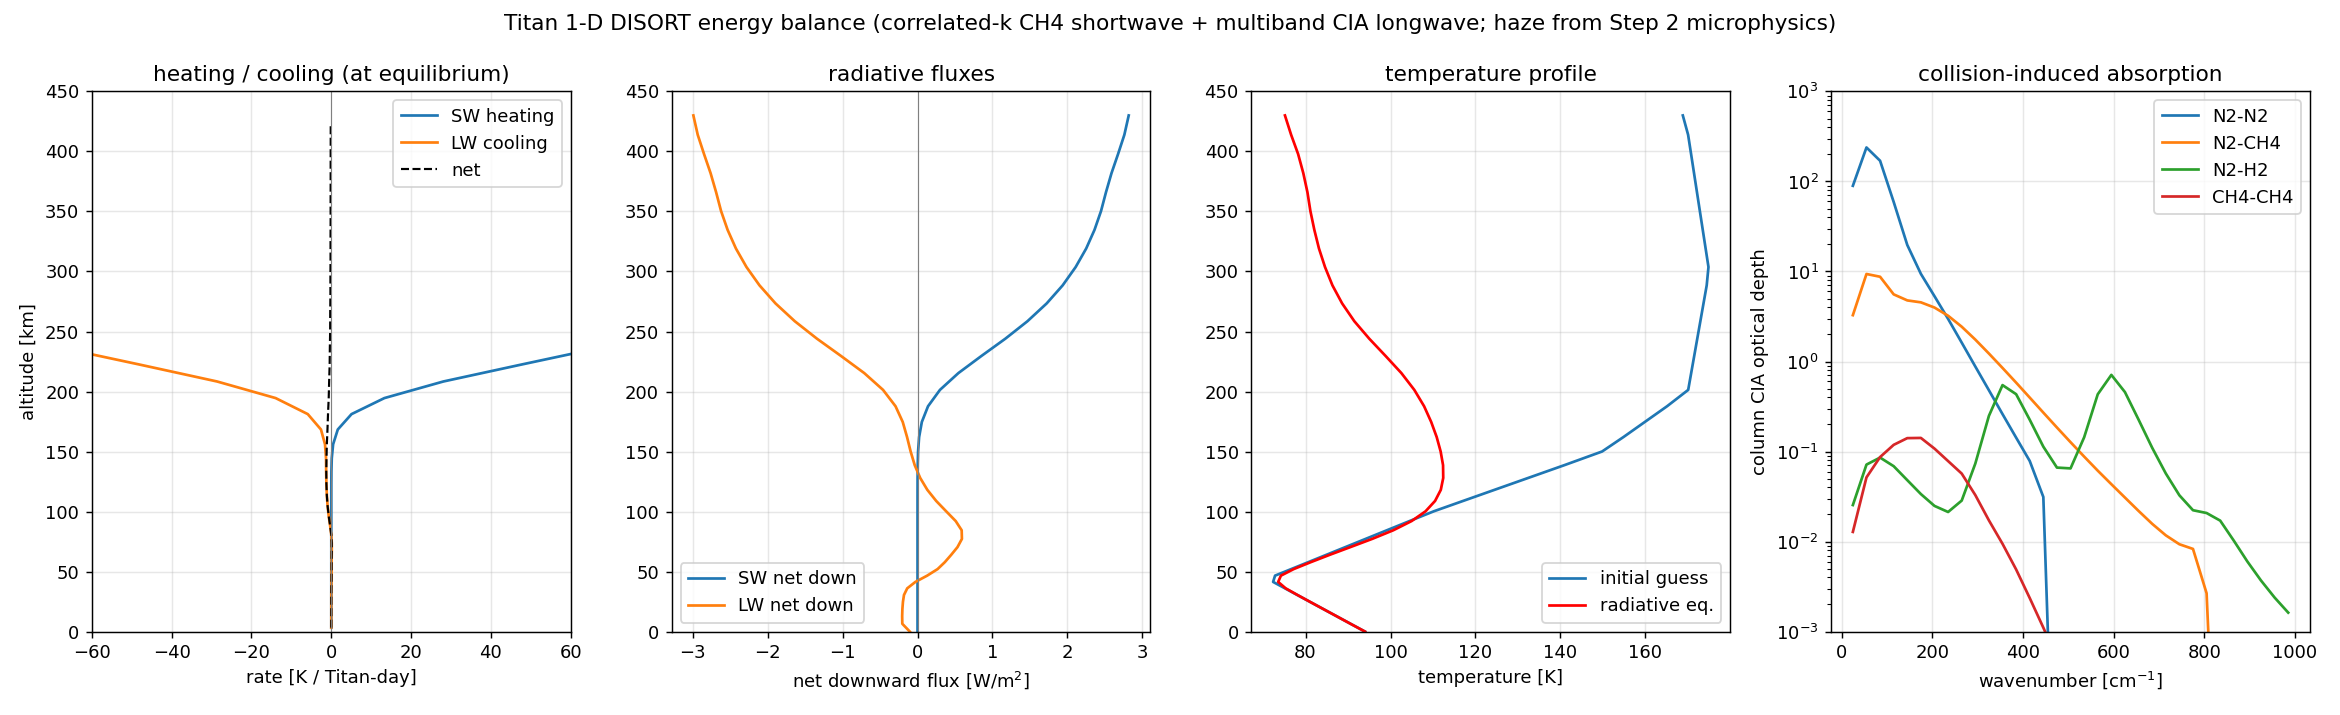
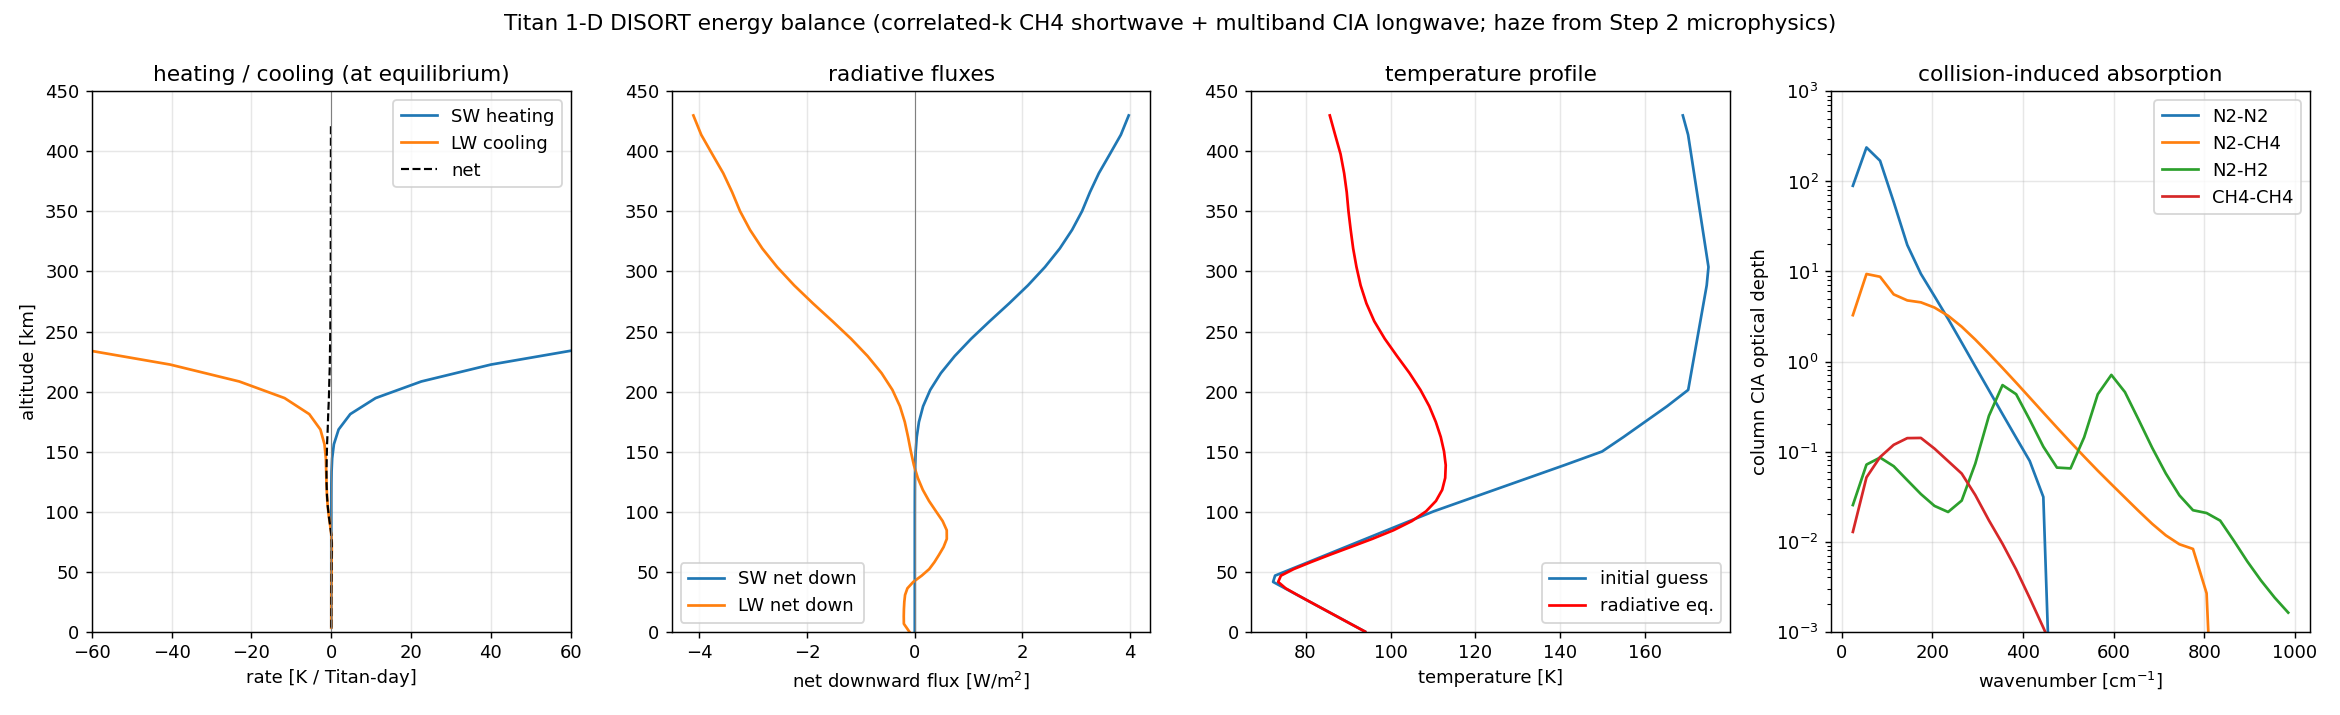
Step 1: spectral haze shortwave optics (omega0(lambda), g(lambda))
Replace the gray haze single-scattering albedo/asymmetry with the
observational Huygens/DISR-derived spectra (Doose 2016; preschazev_ssa/g),
interpolated to the model SW bands: omega0 -> 0 (pure absorber) in the UV,
~0.9 in the near-IR; per-band asymmetry. The SW solver now carries a
per-wave (per-band) Henyey-Greenstein asymmetry.

Effect: total shortwave absorbed rises 2.8 -> 4.0 W/m^2 (near Tomasko's
4.5), but the stratopause warms only to ~115 K. Diagnostics show the
residual ~80 K cold bias vs the Fortran (195 K) is NOT the SW gas or haze
single-scattering (both now spectral and shared with the Fortran): it is
(i) the haze optical-depth magnitude -- the mobility-radius cross-section
overestimates large-aggregate extinction (our column tau ~8x the observed
~8.6), and (ii) LW gas-line cooling (C2H2/C2H6/HCN) absent from our
CIA-only longwave. Documented as the next refinements (mean-field
aggregate optics + gas-line LW).

10/10 RT + 12/12 microphysics tests pass. Paper/figures/README updated.

diff --git a/writing/main.tex b/writing/main.tex
@@ -150,10 +150,12 @@ Table~\ref{tab:params}.
 The solver is built on \texttt{pydisort} (a modern \texttt{torch}-based DISORT
 binding) with eight streams: a collimated solar beam in the shortwave and a
 band-resolved Planck thermal source in the longwave. Per layer the optical
-properties combine the haze---taken directly from the Step~2 microphysics via a
-geometric cross-section $Q_{\rm ext}\pi r_a^2$, with $\omega_0,g$ from the
-Huygens/DISR literature (scattering in the shortwave, a near-pure absorber in
-the IR)---and the gas.
+properties combine the haze---its extinction from the Step~2 microphysics
+(cross-section $Q_{\rm ext}\pi r_a^2$), with \emph{spectral} single-scattering
+albedo $\omega_0(\lambda)$ and asymmetry $g(\lambda)$ taken from the Huygens/DISR
+prescribed haze (Doose 2016): $\omega_0\!\to\!0$ in the UV (pure absorber),
+rising to $\sim\!0.9$ in the near-IR, and a near-pure absorber in the thermal
+IR---and the gas.
 
 The longwave gas opacity is \emph{real collision-induced absorption}, the
 dominant thermal-IR continuum on Titan. We read the HITRAN CIA coefficients
@@ -189,25 +191,31 @@ Cold space is imposed as the top boundary (a thermal emission temperature of
 $2.7\,\mathrm{K}$, not the atmosphere's top temperature); without this the
 column spuriously absorbs downwelling longwave and overheats.
 
-The solver reaches a genuine steady state: $\sim\!\SI{2.8}{W.m^{-2}}$ of
-shortwave is absorbed against $\sim\!\SI{2.9}{W.m^{-2}}$ of outgoing longwave
-(energy closed to $\sim\!0.1\,\mathrm{W\,m^{-2}}$), with a converged net-heating
-residual below $1\,\mathrm{K}$ per Titan day. The equilibrium profile
-(Fig.~\ref{fig:ebal}) is recognizably Titan-like---a stratopause near
-$110\,\mathrm{K}$ ($\sim\!300\,\mathrm{Pa}$), a cold tropopause near
-$74\,\mathrm{K}$, and a $\sim\!92\,\mathrm{K}$ surface---with the right vertical
-structure but a stratosphere still $\sim\!80\,\mathrm{K}$ cooler than observed.
-Adding correlated-$k$ methane (above) warms the stratopause only modestly
-($\sim\!108\to115\,\mathrm{K}$): although CH$_4$ contributes real spectral
-heating, the total shortwave absorbed is unchanged because on Titan the
-\emph{haze} is the dominant shortwave absorber. The residual cold bias therefore
-traces to the haze shortwave treatment---our microphysical haze deposits its
-absorption lower in the column (its mass peaks near the surface) than the
-reference model's observationally-prescribed stratospheric haze
-(Sec.~\ref{sec:rt-fortran})---so observationally-constrained, spectrally-resolved
-haze optics is the next refinement. The correlated-$k$ shortwave methane, real-CIA
-longwave, energy closure, and haze$\rightarrow$optics$\rightarrow$DISORT coupling
-are in place, which is what Step~3 requires.
+The solver reaches a genuine steady state: with correlated-$k$ methane and the
+spectral haze, $\sim\!\SI{4.0}{W.m^{-2}}$ of shortwave is absorbed (close to the
+$\sim\!\SI{4.5}{W.m^{-2}}$ of \citealp{Tomasko2008heat}) against the outgoing
+longwave, energy closed to $\sim\!0.1\,\mathrm{W\,m^{-2}}$ with a converged
+net-heating residual below $1\,\mathrm{K}$ per Titan day. The equilibrium profile
+(Fig.~\ref{fig:ebal}) has the right vertical structure---a stratopause near
+$115\,\mathrm{K}$ ($\sim\!300\,\mathrm{Pa}$), a cold tropopause near
+$74\,\mathrm{K}$, and a $\sim\!92\,\mathrm{K}$ surface---but the stratosphere is
+still $\sim\!80\,\mathrm{K}$ cooler than observed.
+
+The shortwave upgrades above each helped the budget (correlated-$k$ CH$_4$ adds
+$\approx\!\SI{1.4}{W.m^{-2}}$; the spectral haze raises absorbed shortwave from
+$2.8$ to $\SI{4.0}{W.m^{-2}}$) but moved the stratopause temperature only
+modestly. We trace the residual cold bias to two effects that are deeper than the
+shortwave single-scattering properties: (i) the haze optical-depth \emph{magnitude}
+---using the mobility radius for the optical cross-section overestimates the
+extinction of large fractal aggregates, giving a column optical depth several
+times the observed value, which distorts where sunlight is deposited; and (ii) the
+longwave cooling, which here is collision-induced absorption plus haze emission
+only and lacks the C$_2$H$_2$/C$_2$H$_6$/HCN rotational-line opacity that shapes
+the real stratospheric energy balance. A proper mean-field aggregate optics
+treatment and gas-line longwave cooling are therefore the next refinements. The
+correlated-$k$ shortwave methane, spectral haze, real-CIA longwave, energy
+closure, and haze$\rightarrow$optics$\rightarrow$DISORT coupling are in place,
+which is what Step~3 requires.
 
 \begin{figure}[t]
   \centering
@@ -236,17 +244,18 @@ Figure~\ref{fig:fortran} overlays the two on a shared pressure coordinate. They
 share the same vertical \emph{structure}---a stratopause, a cold tropopause near
 $70$--$74\,\mathrm{K}$, and a $\sim\!90\,\mathrm{K}$ surface---but the reference
 model's stratopause is warmer ($\sim\!195\,\mathrm{K}$ vs.\ our
-$\sim\!115\,\mathrm{K}$). Both models now use correlated-$k$ methane in the
-shortwave (the same $k$-table), so the gap is \emph{not} the gas: the heating
-panel shows the reference model deposits more shortwave in the stratosphere
-because its observationally-prescribed haze absorbs more sunlight there than our
-microphysical haze, whose absorption (with $\omega_0\!=\!0.92$ and a mass profile
-peaking near the surface) is weaker and lower. The close agreement on the
-longwave-controlled lower atmosphere indicates the real-CIA longwave is the
-dominant control on that part of the structure; the stratospheric temperature
-gap is now attributable to the \emph{haze shortwave optics}, making
-observationally-constrained, spectrally-resolved haze single-scattering
-properties the priority upgrade.
+$\sim\!115\,\mathrm{K}$). The two models now share the same shortwave gas
+(correlated-$k$ CH$_4$, same $k$-table) and the same observational haze
+single-scattering spectra, yet the gap persists---so it is neither the gas nor
+the haze $\omega_0,g$. It traces instead to (i) our haze optical-depth
+\emph{magnitude} (the mobility-radius cross-section overestimates large-aggregate
+extinction, so our column optical depth exceeds the observed by several times)
+and (ii) the longwave: the reference model includes C$_2$H$_2$/C$_2$H$_6$/HCN
+rotational-line cooling, whereas ours has only CIA plus haze emission. The two
+models agree most closely in the dense lower atmosphere, where CIA dominates the
+longwave---consistent with that being the part our physics already captures. A
+mean-field aggregate optics treatment (for the cross-section) and gas-line
+longwave cooling are the remaining upgrades.
 
 \begin{figure}[t]
   \centering

diff --git a/src/rt/optics.py b/src/rt/optics.py
@@ -23,8 +23,42 @@ altitude; the driver reverses them to DISORT top-down order.
 from __future__ import annotations
 
 from dataclasses import dataclass
+from functools import lru_cache
+from pathlib import Path
 
 import numpy as np
+
+_DATA = (Path(__file__).resolve().parents[2]
+         / "src" / "example_bowen_fort" / "INPUT" / "DATA")
+
+
+def _parse_preschaze(field: str):
+    """Read preschazev_<field>.txt -> (wn[nw], pl[npl], data[npl, nw])."""
+    L = (_DATA / f"preschazev_{field}.txt").read_text().split("\n")
+    nw, npl = int(L[1]), int(L[2])
+    wn = np.array(L[3].split(), float)
+    pl = np.array(L[4].split(), float)
+    data = np.array([L[5 + i].split() for i in range(npl)], float)
+    return wn, pl, data
+
+
+@lru_cache(maxsize=8)
+def spectral_haze_sw(band_centers_key):
+    """Observational haze single-scattering albedo and asymmetry per SW band.
+
+    From the Huygens/DISR-derived prescribed haze (Doose 2016 / Tomasko 2008):
+    omega0(lambda) and g(lambda), interpolated to the model band centres.  These
+    properties are nearly pressure-independent, so a representative stratospheric
+    level is used.  omega0 falls to ~0 (pure absorber) in the UV -- the dominant
+    stratospheric shortwave heating that a gray albedo misses.
+    """
+    band_centers = np.array(band_centers_key, float)
+    wn_s, pl, ssa = _parse_preschaze("ssa")
+    wn_g, _, gg = _parse_preschaze("g")
+    ip = int(np.argmin(np.abs(pl - 200.0)))        # ~200 Pa (stratosphere)
+    omega0 = np.interp(band_centers, wn_s, ssa[ip])
+    g = np.interp(band_centers, wn_g, gg[ip])
+    return np.clip(omega0, 0.0, 0.999999), np.clip(g, 0.0, 0.95)
 
 
 @dataclass
@@ -90,29 +124,34 @@ def shortwave_optics(column, micro, p: OpticsParams):
 def shortwave_optics_ck(column, micro, ck, p: OpticsParams, comp=None):
     """Correlated-k shortwave optics: per (band, Gauss-point) wave.
 
-    Combines gray haze scattering (constant across bands) with spectral CH4
+    Combines spectral haze single-scattering properties (omega0(lambda),
+    g(lambda) from the observational prescribed haze) with spectral CH4
     absorption from ``rt.correlated_k.CorrelatedKSW``.  Returns
-    (tau, ssa, g_haze, fbeam, weights) where tau/ssa are (nwave, nlyr) ascending,
-    fbeam[nwave] is the per-band TOA solar flux and weights[nwave] the Gauss
-    weights; the gas is a pure absorber so only ``ssa`` varies between waves.
+    (tau, ssa, g_wave, fbeam, weights): tau/ssa are (nwave, nlyr) ascending,
+    g_wave[nwave] the per-wave asymmetry, fbeam[nwave] the per-band TOA solar
+    flux, weights[nwave] the Gauss weights.  The gas is a pure absorber, so it
+    lowers ``ssa`` without changing the (haze) phase function.
     """
     tau_gas = ck.layer_tau(column, comp)              # (nband, ngauss, nlyr)
     tau_haze = layer_haze_tau(column, micro, p)       # (nlyr,)
     nb, ng, nlyr = tau_gas.shape
     nwave = nb * ng
-    sca_haze = p.ssa_haze_sw * tau_haze               # haze scattering optical depth
+    omega0_b, g_b = spectral_haze_sw(tuple(np.round(ck.bands, 3)))   # per band
     tau = np.empty((nwave, nlyr))
     ssa = np.empty((nwave, nlyr))
+    g_wave = np.empty(nwave)
     for b in range(nb):
+        sca_haze = omega0_b[b] * tau_haze             # haze scattering opt depth (nlyr)
         for gi in range(ng):
             w = b * ng + gi
             tt = tau_haze + tau_gas[b, gi]
             tau[w] = tt
             ssa[w] = np.clip(np.where(tt > 0, sca_haze / np.maximum(tt, 1e-300), 0.0),
                              0.0, 0.999999)
+            g_wave[w] = g_b[b]
     fbeam = np.repeat(ck.solar, ng)                   # per-band solar, repeated over g
     weights = np.tile(ck.gw, nb)                      # Gauss weight per wave
-    return tau, ssa, p.g_haze_sw, fbeam, weights
+    return tau, ssa, g_wave, fbeam, weights
 
 
 def longwave_optics_spectral(column, micro, cia, p: OpticsParams, comp=None):

diff --git a/src/rt/disort_driver.py b/src/rt/disort_driver.py
@@ -67,15 +67,15 @@ def solve_shortwave(tau, ssa, g, fbeam, umu0, albedo=0.1, nstr=8):
     return _net_down(ds)[::-1].copy()       # back to ascending
 
 
-def solve_shortwave_spectral(tau, ssa, g_haze, fbeam, weights, umu0,
+def solve_shortwave_spectral(tau, ssa, g_wave, fbeam, weights, umu0,
                              albedo=0.1, nstr=8):
     """Multi-wave (correlated-k) solar-beam DISORT solve.
 
     ``tau, ssa`` are (nwave, nlyr) ascending-in-altitude, one wave per
-    (band, Gauss-point); ``fbeam[nwave]`` is the per-band TOA solar flux and
-    ``weights[nwave]`` the Gauss weights.  Scattering is haze-only, so the phase
-    function is a single Henyey-Greenstein with asymmetry ``g_haze`` for every
-    wave (gas is a pure absorber, varying only ``ssa``).  Returns the
+    (band, Gauss-point); ``g_wave[nwave]`` is the per-wave (haze) asymmetry,
+    ``fbeam[nwave]`` the per-band TOA solar flux, ``weights[nwave]`` the Gauss
+    weights.  Scattering is haze-only (Henyey-Greenstein, asymmetry varying by
+    band); the gas is a pure absorber, lowering only ``ssa``.  Returns the
     weight-summed net downward flux at levels (ascending).
     """
     tau = np.asarray(tau, float)
@@ -91,7 +91,10 @@ def solve_shortwave_spectral(tau, ssa, g_haze, fbeam, weights, umu0,
     prop = torch.zeros((nwave, 1, nlyr, nprop))
     prop[:, 0, :, 0] = torch.from_numpy(tau[:, ::-1].copy())
     prop[:, 0, :, 1] = torch.from_numpy(np.asarray(ssa, float)[:, ::-1].copy())
-    prop[:, 0, :, 2:] = scattering_moments(nstr, "henyey-greenstein", float(g_haze))
+    # Henyey-Greenstein moments per wave: g_w^l for l = 1..nstr
+    g_wave = np.asarray(g_wave, float)
+    moments = g_wave[:, None] ** np.arange(1, nstr + 1)[None, :]   # (nwave, nstr)
+    prop[:, 0, :, 2:] = torch.from_numpy(moments.copy())[:, None, :]
 
     fbeam = np.asarray(fbeam, float).reshape(nwave, 1)
     ds.forward(prop,

diff --git a/tests/test_rt.py b/tests/test_rt.py
@@ -85,6 +85,21 @@ def test_correlated_k_ch4_shortwave():
     assert sw[0] > 0                              # some sunlight reaches the surface
 
 
+def test_spectral_haze_sw():
+    """Spectral haze single-scattering albedo is wavelength-dependent and absorbs
+    strongly in the UV (omega0 -> 0), unlike a gray albedo."""
+    from rt.correlated_k import CorrelatedKSW
+    from rt.optics import spectral_haze_sw
+    ck = CorrelatedKSW(sma_au=9.58)
+    omega0, g = spectral_haze_sw(tuple(np.round(ck.bands, 3)))
+    assert omega0.size == ck.nband and g.size == ck.nband
+    assert 0.0 <= omega0.min() < 0.5          # absorbing UV/red bands
+    assert omega0.max() > 0.8                  # scattering visible/near-IR bands
+    assert np.all((g >= 0.0) & (g <= 0.95))
+    # spectral, not gray
+    assert omega0.max() - omega0.min() > 0.3
+
+
 def test_cia_far_ir_optically_thick():
     """N2-N2 makes the far-IR optically thick and the mid-IR thin (Titan greenhouse)."""
     _, _, col = _setup()

diff --git a/README.md b/README.md
@@ -159,15 +159,18 @@ precision and the BVP agrees with the master ODE to ~9% in the lower haze.
 
 - [x] Literature extracted → `docs/physics_parameters.md`, `docs/scaling_law.md`
 - [~] Step 1 — DISORT energy balance (`src/rt/`) via pydisort: **correlated-k CH₄
-      shortwave** (`correlated_k.py`, same k-table as the Fortran model; 42 bands ×
-      10 Gauss points) + **multiband longwave with real HITRAN CIA** (N₂–N₂, N₂–CH₄,
-      CH₄–CH₄, N₂–H₂), haze from Step 2. Genuine radiative–convective steady state
-      (residual <1 K/day, energy closed to ~0.1 W/m²): stratopause ~115 K, cold
+      shortwave** (`correlated_k.py`) + **spectral haze optics** (observational
+      ω₀(λ)/g(λ), `optics.spectral_haze_sw`) + **multiband longwave with real HITRAN
+      CIA** (N₂–N₂, N₂–CH₄, CH₄–CH₄, N₂–H₂), haze from Step 2. Genuine
+      radiative–convective steady state (residual <1 K/day, energy closed to
+      ~0.1 W/m²; SW absorbed ~4 W/m², near Tomasko's 4.5): stratopause ~115 K, cold
       tropopause ~74 K, ~92 K surface. Still ~80 K cooler than observed in the
-      stratosphere — now attributable to the **haze SW optics** (our microphysical
-      haze absorbs less sunlight aloft than the reference's prescribed haze), the
-      next refinement. Cross-validated against `example_bowen_fort` (full
-      correlated-k, observed ~195 K stratopause).
+      stratosphere — the gap is **not** the SW gas/haze single-scattering (both now
+      spectral) but (i) the haze optical-depth magnitude (mobility-radius
+      cross-section overestimates large-aggregate extinction) and (ii) LW gas-line
+      cooling (C₂H₂/C₂H₆/HCN), which our CIA-only LW lacks. Next: mean-field
+      aggregate optics + gas-line LW. Cross-validated vs `example_bowen_fort`
+      (full physics, observed ~195 K stratopause).
 - [x] Step 2 — scaling-law implementation (`src/microphysics/`): K→0 master ODE
       **and** full eddy-diffusion BVP, cross-validated against Tomasko/dT25
 - [ ] Step 3 — coupled iteration